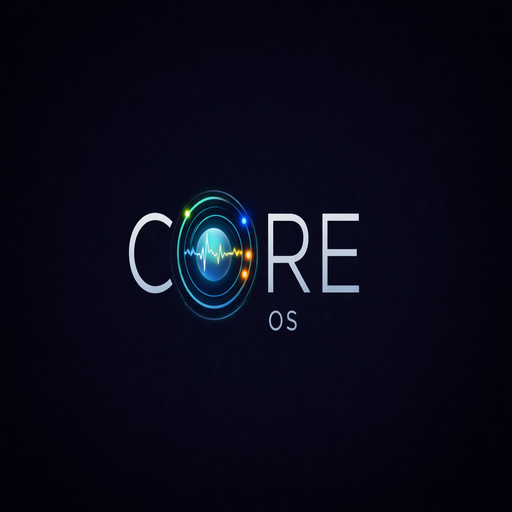
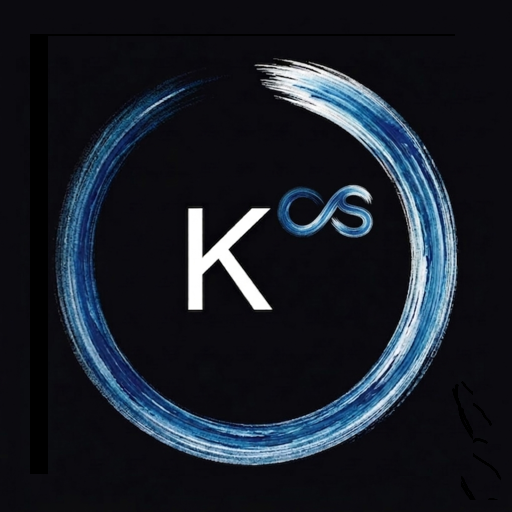
nuove icone

Changed region(s): [[0.0938, 0.0938, 0.9062, 0.9375], [0.25, 0.3438, 0.75, 0.6562]]

diff --git a/src/KentuOSBootVideo.jsx b/src/KentuOSBootVideo.jsx
@@ -1,0 +1,65 @@
+import React, { useCallback, useEffect, useRef } from 'react';
+
+const BOOT_VIDEO_SRC = '/Animazione.mp4';
+/** Limite di sicurezza se l'evento `ended` non arriva (file corrotto / codec). */
+const BOOT_MAX_MS = 60000;
+
+/**
+ * Schermata di avvio: video fullscreen; al termine (o errore / timeout) chiama onComplete.
+ * `muted` + `playsInline` consentono l’autoplay su mobile.
+ */
+export default function KentuOSBootVideo({ onComplete }) {
+  const doneRef = useRef(false);
+  const fireComplete = useCallback(() => {
+    if (doneRef.current) return;
+    doneRef.current = true;
+    if (typeof onComplete === 'function') onComplete();
+  }, [onComplete]);
+
+  useEffect(() => {
+    const t = window.setTimeout(() => fireComplete(), BOOT_MAX_MS);
+    return () => clearTimeout(t);
+  }, [fireComplete]);
+
+  useEffect(() => {
+    document.body.style.overflow = 'hidden';
+    document.documentElement.style.overflow = 'hidden';
+    return () => {
+      document.body.style.overflow = '';
+      document.documentElement.style.overflow = '';
+    };
+  }, []);
+
+  return (
+    <div
+      style={{
+        position: 'fixed',
+        inset: 0,
+        zIndex: 99999,
+        background: '#000',
+        display: 'flex',
+        alignItems: 'center',
+        justifyContent: 'center',
+      }}
+      role="presentation"
+      aria-hidden="true"
+    >
+      <video
+        src={BOOT_VIDEO_SRC}
+        style={{
+          width: '100%',
+          height: '100%',
+          maxHeight: '100dvh',
+          objectFit: 'contain',
+          background: '#000',
+        }}
+        autoPlay
+        muted
+        playsInline
+        preload="auto"
+        onEnded={fireComplete}
+        onError={fireComplete}
+      />
+    </div>
+  );
+}

diff --git a/src/SalaComandi.jsx b/src/SalaComandi.jsx
@@ -4459,6 +4459,9 @@ Esempio: {"desc":"${name}","kcal":120,"prot":25,"carb":0,"fatTotal":2,"fibre":0}
           .action-btn.full-width { grid-column: 1 / -1; flex-direction: row; padding: 20px; gap: 15px; }
           .action-btn.full-width .action-icon { font-size: 2rem; }
           .action-icon { font-size: 1.6rem; filter: drop-shadow(0 0 5px rgba(255,255,255,0.1)); }
+          .action-icon-img { width: 1.6rem; height: 1.6rem; object-fit: contain; display: block; flex-shrink: 0; }
+          .action-icon-img-lg { width: 1.8rem; height: 1.8rem; }
+          .action-icon-img-fab { width: 1.35rem; height: 1.35rem; }
           .action-label { font-size: 0.65rem; text-transform: uppercase; letter-spacing: 1.5px; color: #aaa; font-weight: 600; }
 
           .type-btn { flex: 1; background: transparent; border: 1px solid #333; color: #777; padding: 12px 0; border-radius: 14px; font-size: 0.7rem; letter-spacing: 1px; cursor: pointer; transition: 0.3s; text-align: center; }
@@ -5525,7 +5528,7 @@ Esempio: {"desc":"${name}","kcal":120,"prot":25,"carb":0,"fatTotal":2,"fibre":0}
           onClick={() => { setActiveAction('ai_chat'); setIsDrawerOpen(true); }}
           style={{ flex: 1, display: 'flex', alignItems: 'center', gap: '10px', background: '#1a1a1a', borderRadius: '30px', padding: '12px 20px', border: '1px solid #333', cursor: 'pointer' }}
         >
-          <span style={{ fontSize: '1.2rem' }}>✨</span>
+          <img src="/nuova-icona.png" alt="" className="action-icon-img action-icon-img-fab" width={22} height={22} decoding="async" />
           <span style={{ color: '#888', fontSize: '0.95rem' }}>Chiedi a Core AI...</span>
         </div>
         <button type="button" onClick={() => { setShowChoiceModal(false); setIsDrawerOpen(true); setActiveAction(null); }} style={{ width: 50, height: 50, minWidth: 50, background: '#222', color: '#00e5ff', border: '1px solid #333', borderRadius: '16px', fontSize: '1.8rem', display: 'flex', justifyContent: 'center', alignItems: 'center', cursor: 'pointer', transition: '0.3s', flexShrink: 0 }} aria-label="Aggiungi evento">+</button>
@@ -5639,9 +5642,9 @@ Esempio: {"desc":"${name}","kcal":120,"prot":25,"carb":0,"fatTotal":2,"fibre":0}
               <button className="action-btn" onClick={() => { setShowReport(true); setActiveAction(null); closeDrawer(); }}><span className="action-icon">📊</span><span className="action-label">Report</span></button>
               <button className="action-btn" onClick={() => { setShowProfile(true); setActiveAction(null); closeDrawer(); }}><span className="action-icon">⚙️</span><span className="action-label">Profilo & Target</span></button>
               <button className="action-btn" onClick={() => setActiveAction('strategia')}><span className="action-icon" style={{ filter: 'drop-shadow(0 0 8px rgba(0, 229, 255, 0.4))' }}>🎯</span><span className="action-label" style={{ color: '#00e5ff' }}>Protocollo</span></button>
-              <button className="action-btn" onClick={() => setActiveAction('focus')}><span className="action-icon" style={{ filter: 'drop-shadow(0 0 8px rgba(251, 192, 45, 0.4))' }}>🧘</span><span className="action-label" style={{ color: '#fbc02d' }}>Neural Reset</span></button>
+              <button className="action-btn" onClick={() => setActiveAction('focus')}><img src="/icon-neural-128.png" alt="" className="action-icon-img action-icon-img-lg" style={{ filter: 'drop-shadow(0 0 8px rgba(251, 192, 45, 0.45))' }} width={29} height={29} decoding="async" /><span className="action-label" style={{ color: '#fbc02d' }}>Neural Reset</span></button>
               <button className="action-btn" onClick={() => setActiveAction('ai_chat')} style={{ background: 'linear-gradient(145deg, rgba(26, 26, 36, 0.9), rgba(18, 16, 28, 0.9))', borderColor: '#3a2a4a' }}>
-                <span className="action-icon" style={{ filter: 'drop-shadow(0 0 10px rgba(179, 136, 255, 0.5))' }}>✨</span><span className="action-label" style={{ color: '#b388ff' }}>Core AI</span>
+                <img src="/nuova-icona.png" alt="" className="action-icon-img action-icon-img-lg" style={{ filter: 'drop-shadow(0 0 10px rgba(179, 136, 255, 0.45))' }} width={29} height={29} decoding="async" /><span className="action-label" style={{ color: '#b388ff' }}>Core AI</span>
               </button>
             </div>
           </div>
@@ -6502,8 +6505,9 @@ Esempio: {"desc":"${name}","kcal":120,"prot":25,"carb":0,"fatTotal":2,"fibre":0}
               >
                 &lt; INDIETRO
               </button>
-              <h2 style={{ fontSize: '0.85rem', color: '#FFD700', letterSpacing: '2px', margin: 0, textShadow: '0 0 12px rgba(255,215,0,0.35)', flex: 1, textAlign: 'center' }}>
-                🧘 NEURAL RESET
+              <h2 style={{ fontSize: '0.85rem', color: '#FFD700', letterSpacing: '2px', margin: 0, textShadow: '0 0 12px rgba(255,215,0,0.35)', flex: 1, textAlign: 'center', display: 'flex', alignItems: 'center', justifyContent: 'center', gap: '8px' }}>
+                <img src="/icon-neural-128.png" alt="" width={22} height={22} decoding="async" style={{ objectFit: 'contain', filter: 'drop-shadow(0 0 6px rgba(255,215,0,0.35))' }} />
+                NEURAL RESET
               </h2>
               <div style={{ width: '48px', height: '48px', flexShrink: 0 }} aria-hidden />
             </div>
@@ -6848,7 +6852,10 @@ Esempio: {"desc":"${name}","kcal":120,"prot":25,"carb":0,"fatTotal":2,"fibre":0}
               ))}
             </div>
             <div style={{ display: 'flex', gap: '10px' }}>
-              <button onClick={() => window.print()} style={{ padding: '8px 16px', background: '#2e7d32', color: '#fff', border: 'none', borderRadius: '8px', cursor: 'pointer', fontWeight: 'bold' }}>🖨️ Stampa PDF</button>
+              <button type="button" onClick={() => window.print()} style={{ padding: '8px 16px', background: '#2e7d32', color: '#fff', border: 'none', borderRadius: '8px', cursor: 'pointer', fontWeight: 'bold', display: 'inline-flex', alignItems: 'center', gap: '8px' }}>
+                <img src="/icon-pdf-32.png" alt="" width={20} height={20} decoding="async" style={{ objectFit: 'contain' }} />
+                Stampa PDF
+              </button>
               <button onClick={() => setShowReport(false)} style={{ padding: '8px 16px', background: '#d32f2f', color: '#fff', border: 'none', borderRadius: '8px', cursor: 'pointer', fontWeight: 'bold' }}>Chiudi</button>
             </div>
           </div>
@@ -6942,7 +6949,10 @@ Esempio: {"desc":"${name}","kcal":120,"prot":25,"carb":0,"fatTotal":2,"fibre":0}
                   </select>
                 </label>
               </div>
-              <button type="button" onClick={calculateSmartTargets} style={{ width: '100%', padding: '12px', marginTop: '15px', background: '#ff9800', color: '#000', border: 'none', borderRadius: '8px', fontWeight: 'bold', cursor: 'pointer' }}>✨ Auto-Calcola Target</button>
+              <button type="button" onClick={calculateSmartTargets} style={{ width: '100%', padding: '12px', marginTop: '15px', background: '#ff9800', color: '#000', border: 'none', borderRadius: '8px', fontWeight: 'bold', cursor: 'pointer', display: 'flex', alignItems: 'center', justifyContent: 'center', gap: '10px' }}>
+                <img src="/nuova-icona.png" alt="" width={20} height={20} decoding="async" style={{ objectFit: 'contain' }} />
+                Auto-Calcola Target
+              </button>
             </div>
 
             <div style={{ background: '#2c2c2c', padding: '15px', borderRadius: '8px', marginBottom: '20px' }}>
@@ -7364,7 +7374,14 @@ Esempio: {"desc":"${name}","kcal":120,"prot":25,"carb":0,"fatTotal":2,"fibre":0}
                 disabled={isAIVerifying}
                 style={{ background: '#2a2a2a', color: isAIVerifying ? '#888' : '#00e5ff', border: `1px solid ${isAIVerifying ? '#444' : '#00e5ff'}`, padding: '14px', borderRadius: '10px', fontWeight: 'bold', fontSize: '1rem', cursor: isAIVerifying ? 'not-allowed' : 'pointer', display: 'flex', justifyContent: 'center', gap: '8px', transition: 'all 0.3s' }}
               >
-                {isAIVerifying ? '⏳ Analisi in corso...' : '✨ Verifica Correttezza (AI)'}
+                {isAIVerifying ? (
+                  '⏳ Analisi in corso...'
+                ) : (
+                  <>
+                    <img src="/nuova-icona.png" alt="" width={20} height={20} decoding="async" style={{ objectFit: 'contain' }} />
+                    Verifica Correttezza (AI)
+                  </>
+                )}
               </button>
               <button
                 type="button"

diff --git a/src/ChartModal.jsx b/src/ChartModal.jsx
@@ -387,7 +387,16 @@ export default function ChartModal({
                 {aiInsightsList.length === 0 ? (
                   <>
                     <p style={{ fontSize: '0.9rem', color: '#888', marginBottom: '16px' }}>Nessuna analisi generata oggi.</p>
-                    <button type="button" onClick={runGenerateGlobalAI} disabled={isAiLoading} style={{ padding: '12px 18px', fontSize: '0.85rem', fontWeight: 'bold', background: 'linear-gradient(135deg, rgba(0,229,255,0.2) 0%, rgba(147,51,234,0.15) 100%)', border: '1px solid rgba(0,229,255,0.5)', borderRadius: '10px', color: '#00e5ff', cursor: isAiLoading ? 'wait' : 'pointer', opacity: isAiLoading ? 0.8 : 1 }}>{isAiLoading ? '...' : '✨ Genera Analisi Globale (AI)'}</button>
+                    <button type="button" onClick={runGenerateGlobalAI} disabled={isAiLoading} style={{ padding: '12px 18px', fontSize: '0.85rem', fontWeight: 'bold', background: 'linear-gradient(135deg, rgba(0,229,255,0.2) 0%, rgba(147,51,234,0.15) 100%)', border: '1px solid rgba(0,229,255,0.5)', borderRadius: '10px', color: '#00e5ff', cursor: isAiLoading ? 'wait' : 'pointer', opacity: isAiLoading ? 0.8 : 1, display: 'inline-flex', alignItems: 'center', gap: '10px' }}>
+                      {isAiLoading ? (
+                        '...'
+                      ) : (
+                        <>
+                          <img src="/nuova-icona.png" alt="" width={20} height={20} decoding="async" style={{ objectFit: 'contain' }} />
+                          Genera Analisi Globale (AI)
+                        </>
+                      )}
+                    </button>
                   </>
                 ) : (
                   <>

diff --git a/src/MealBuilder.jsx b/src/MealBuilder.jsx
@@ -341,8 +341,15 @@ export default function MealBuilder({
                   </div>
                 ))}
                 {foodNameInput.trim() && (
-                  <button type="button" style={{ width: '100%', padding: '14px 16px', minHeight: '48px', boxSizing: 'border-box', textAlign: 'left', background: 'rgba(179, 136, 255, 0.15)', border: 'none', borderBottom: '1px solid #2a2a2a', color: '#b388ff', cursor: isGeneratingFood ? 'wait' : 'pointer', fontSize: '1rem', fontWeight: '600', display: 'flex', alignItems: 'center' }} onClick={() => generateFoodWithAI(foodNameInput.trim())} disabled={isGeneratingFood}>
-                    {isGeneratingFood ? '⏳ Generazione in corso...' : `✨ Genera con AI: "${foodNameInput.trim()}"`}
+                  <button type="button" style={{ width: '100%', padding: '14px 16px', minHeight: '48px', boxSizing: 'border-box', textAlign: 'left', background: 'rgba(179, 136, 255, 0.15)', border: 'none', borderBottom: '1px solid #2a2a2a', color: '#b388ff', cursor: isGeneratingFood ? 'wait' : 'pointer', fontSize: '1rem', fontWeight: '600', display: 'flex', alignItems: 'center', gap: '10px' }} onClick={() => generateFoodWithAI(foodNameInput.trim())} disabled={isGeneratingFood}>
+                    {isGeneratingFood ? (
+                      '⏳ Generazione in corso...'
+                    ) : (
+                      <>
+                        <img src="/nuova-icona.png" alt="" width={22} height={22} decoding="async" style={{ objectFit: 'contain', flexShrink: 0 }} />
+                        <span>{`Genera con AI: "${foodNameInput.trim()}"`}</span>
+                      </>
+                    )}
                   </button>
                 )}
               </div>

diff --git a/src/App.jsx b/src/App.jsx
@@ -1,6 +1,13 @@
-import React from 'react';
+import React, { useState } from 'react';
 import SalaComandi from './SalaComandi';
+import KentuOSBootVideo from './KentuOSBootVideo';
 
 export default function App() {
+  const [bootComplete, setBootComplete] = useState(false);
+
+  if (!bootComplete) {
+    return <KentuOSBootVideo onComplete={() => setBootComplete(true)} />;
+  }
+
   return <SalaComandi />;
 }